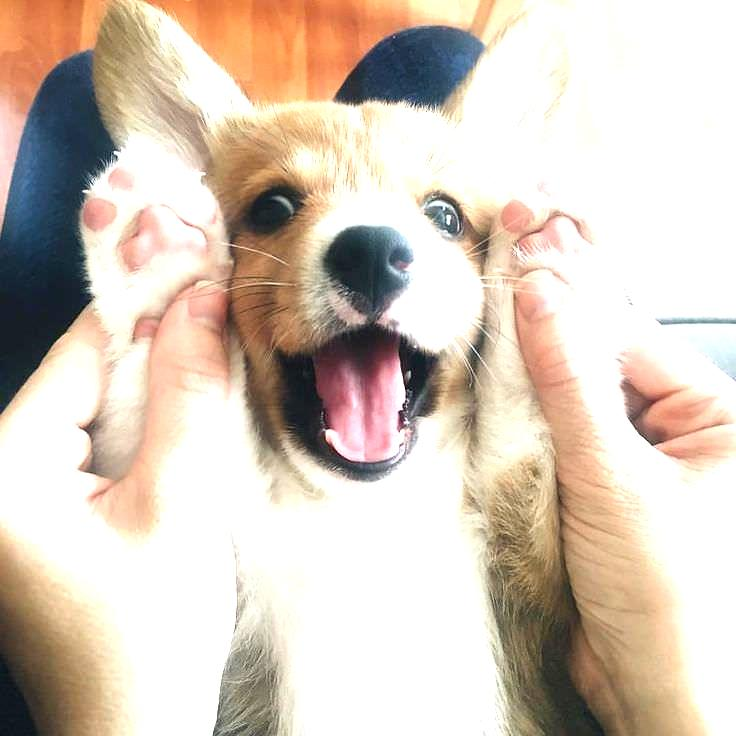
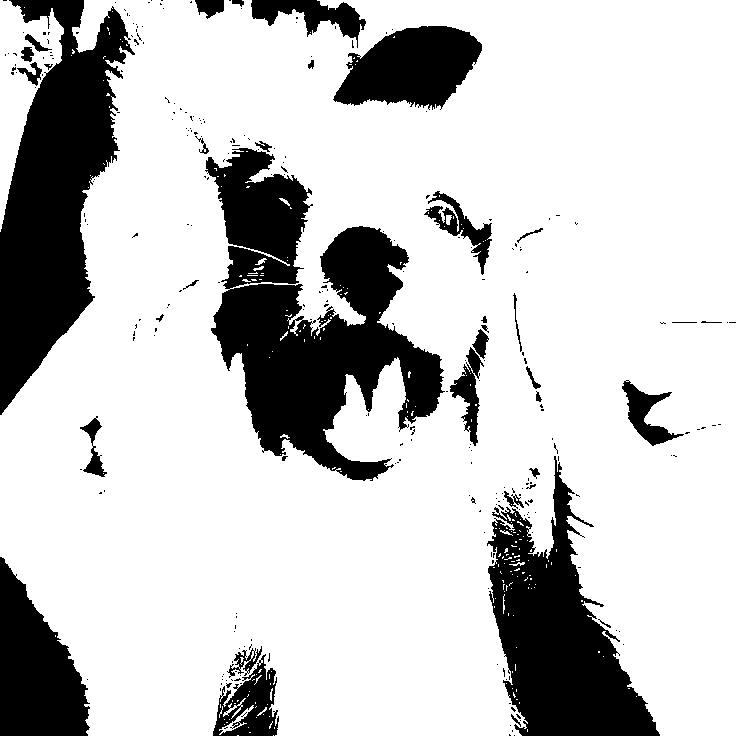
edit blackwhitecommand

diff --git a/src/main/java/seedu/address/logic/commands/BlackWhiteCommand.java b/src/main/java/seedu/address/logic/commands/BlackWhiteCommand.java
@@ -1,7 +1,5 @@
+/* @@author thamsimun */
 package seedu.address.logic.commands;
-
-import static seedu.address.commons.core.Config.ASSETS_FILEPATH;
-import static seedu.address.commons.core.Config.TEMP_FILEPATH;
 
 import java.io.File;
 import java.util.OptionalInt;
@@ -9,10 +7,10 @@ import java.util.OptionalInt;
 import com.sksamuel.scrimage.BufferedOpFilter;
 import com.sksamuel.scrimage.Image;
 import com.sksamuel.scrimage.filter.ThresholdFilter;
-import com.sksamuel.scrimage.nio.JpegWriter;
 
 import seedu.address.commons.core.Messages;
 import seedu.address.logic.CommandHistory;
+import seedu.address.logic.commands.exceptions.CommandException;
 import seedu.address.model.Album;
 import seedu.address.model.CurrentEdit;
 import seedu.address.model.Model;
@@ -28,47 +26,45 @@ public class BlackWhiteCommand extends Command {
         + ": Apply the black and white filter on the image with threshold given.\n"
         + "If threshold is not given, default threshold value is 127.\n"
         + "[THRESHOLD VALUE (int)] "
-        + "and FILENAME.\n"
-        + "Example: " + COMMAND_WORD + " cutedog.jpg"
-        + "Example2: " + COMMAND_WORD + " 130 cutedog.jpg";
+        + "Example: " + COMMAND_WORD
+        + "Example2: " + COMMAND_WORD;
     private OptionalInt threshold;
-    private String fileName;
+    private boolean isNewCommand;
 
     /**
      * Creates a ContrastCommand object.
      * @param threshold pixels lighter than this threshold becomes white and pixels darker than it becomes black.
-     * @param fileName file name of the image
      */
-    public BlackWhiteCommand(OptionalInt threshold, String fileName) {
+    public BlackWhiteCommand(OptionalInt threshold) {
         this.threshold = threshold;
-        this.fileName = fileName;
+        this.isNewCommand = true;
     }
 
     @Override
-    public CommandResult execute(CurrentEdit currentEdit, Album album, Model model, CommandHistory history) {
+    public CommandResult execute(CurrentEdit currentEdit, Album album, Model model, CommandHistory history)
+        throws CommandException {
+
+        seedu.address.model.image.Image initialImage = currentEdit.getTempImage();
+        if (initialImage == null) {
+            throw new CommandException(Messages.MESSAGE_DID_NOT_OPEN);
+        }
         if (threshold.isPresent()) {
-            seedu.address.model.image.Image initialImage = new seedu.address
-                .model.image.Image(ASSETS_FILEPATH + fileName);
             BufferedOpFilter bwFilter =
                 new ThresholdFilter(threshold.getAsInt(), 0xffffff, 0x000000);
-            Image.fromFile(new File(ASSETS_FILEPATH
-                + fileName)).filter(bwFilter)
-                .output(TEMP_FILEPATH + "sampleBlackWhite.jpg",
-                    new JpegWriter(100, true));
+            Image outputImage = Image.fromFile(new File(initialImage.getUrl())).filter(bwFilter);
+            currentEdit.setTempImage(outputImage);
         } else {
-            seedu.address.model.image.Image initialImage = new seedu.address
-                .model.image.Image(ASSETS_FILEPATH + fileName);
             BufferedOpFilter bwFilter =
                 new ThresholdFilter(127, 0xffffff, 0x000000);
-            Image.fromFile(new File(ASSETS_FILEPATH
-                + fileName)).filter(bwFilter)
-                .output(TEMP_FILEPATH + "sampleBlackWhite.jpg",
-                    new JpegWriter(100, true));
+            Image outputImage = Image.fromFile(new File(initialImage.getUrl())).filter(bwFilter);
+            currentEdit.setTempImage(outputImage);
         }
 
-        seedu.address.model.image.Image finalImage = new seedu.address.model
-            .image.Image(TEMP_FILEPATH + "sampleBlackWhite.jpg");
-        model.displayImage(finalImage);
+        if (this.isNewCommand) {
+            this.isNewCommand = false;
+            currentEdit.addCommand(this);
+            currentEdit.displayTempImage();
+        }
         return new CommandResult(Messages.MESSAGE_BLACKWHITE_SUCCESS);
     }
 }

diff --git a/src/main/java/seedu/address/logic/parser/BlackWhiteCommandParser.java b/src/main/java/seedu/address/logic/parser/BlackWhiteCommandParser.java
@@ -1,10 +1,6 @@
+/* @@author thamsimun */
 package seedu.address.logic.parser;
 
-import static java.util.Objects.requireNonNull;
-import static seedu.address.commons.core.Config.ASSETS_FILEPATH;
-import static seedu.address.commons.core.Messages.MESSAGE_INVALID_COMMAND_FORMAT;
-
-import java.io.File;
 import java.util.OptionalInt;
 
 import seedu.address.commons.core.Messages;
@@ -23,46 +19,32 @@ public class BlackWhiteCommandParser implements Parser<BlackWhiteCommand> {
      * @throws ParseException
      */
     public BlackWhiteCommand parse(String args) throws ParseException {
-        requireNonNull(args);
-        String fileName;
         OptionalInt threshold;
-        args = args.trim();
-        String[] parsed = args.split(" ");
 
         if (args.isEmpty()) {
-            throw new ParseException(String.format(MESSAGE_INVALID_COMMAND_FORMAT, BlackWhiteCommand.MESSAGE_USAGE));
-        }
-
-        if (parsed.length < 1) {
-            throw new ParseException(String.format(MESSAGE_INVALID_COMMAND_FORMAT, BlackWhiteCommand.MESSAGE_USAGE));
-        }
-
-        if (parsed.length == 2) {
-            try {
-                threshold = OptionalInt.of(Integer.parseInt(parsed[0]));
-            } catch (NumberFormatException e) {
-                throw new ParseException(Messages.MESSAGE_BLACKWHITE_INT_ERROR);
-            }
-            Character lastletter = parsed[0].charAt(parsed[0].length() - 1);
-            if (lastletter.equals('f') || lastletter.equals('F') || lastletter.equals('d') || lastletter.equals('D')) {
-                throw new ParseException(Messages.MESSAGE_BLACKWHITE_INT_ERROR);
-            }
-            if (threshold.getAsInt() < 0) {
-                throw new ParseException(Messages.MESSAGE_NEGATIVE_ERROR);
-            }
-            fileName = parsed[1];
-        } else {
             threshold = OptionalInt.empty();
-            fileName = parsed[0];
+        } else {
+            args = args.trim();
+            String[] parsed = args.split(" ");
+            if (parsed.length == 1) {
+                try {
+                    threshold = OptionalInt.of(Integer.parseInt(parsed[0]));
+                } catch (NumberFormatException e) {
+                    throw new ParseException(Messages.MESSAGE_BLACKWHITE_INT_ERROR);
+                }
+                Character lastletter = parsed[0].charAt(parsed[0].length() - 1);
+                if (lastletter.equals('f') || lastletter.equals('F') || lastletter.equals('d')
+                    || lastletter.equals('D')) {
+                    throw new ParseException(Messages.MESSAGE_BLACKWHITE_INT_ERROR);
+                }
+                if (threshold.getAsInt() < 0) {
+                    throw new ParseException(Messages.MESSAGE_NEGATIVE_ERROR);
+                }
+            } else {
+                threshold = OptionalInt.empty();
+            }
         }
-
-        File directory = new File(ASSETS_FILEPATH + fileName);
-
-        if (!directory.exists()) {
-            throw new ParseException(Messages.MESSAGE_FILE_DOES_NOT_EXIST);
-        }
-
-        return new BlackWhiteCommand(threshold, fileName);
+        return new BlackWhiteCommand(threshold);
     }
 
 }

diff --git a/src/main/java/seedu/address/logic/commands/BrightnessCommand.java b/src/main/java/seedu/address/logic/commands/BrightnessCommand.java
@@ -1,3 +1,4 @@
+/* @@author thamsimun */
 package seedu.address.logic.commands;
 
 import java.io.File;
@@ -25,9 +26,8 @@ public class BrightnessCommand extends Command {
         + ": Adjust the brightness of the image according to ratio value given.\n"
         + "If ratio is not given, default brightness ratio will be 1.1\n"
         + "Parameters: [BRIGHTNESS RATIO (double)] "
-        + "and FILENAME.\n"
-        + "Example: " + COMMAND_WORD + " cutedog.jpg"
-        + "Example2: " + COMMAND_WORD + " 0.3 cutedog.jpg";
+        + "Example: " + COMMAND_WORD
+        + "Example2: " + COMMAND_WORD;
     private OptionalDouble brightnessValue;
     private boolean isNewCommand;
 
@@ -63,7 +63,7 @@ public class BrightnessCommand extends Command {
             currentEdit.addCommand(this);
             currentEdit.displayTempImage();
         }
-        return new CommandResult(Messages.MESSAGE_CONTRAST_SUCCESS);
+        return new CommandResult(Messages.MESSAGE_BRIGHTNESS_SUCCESS);
     }
 
 }

diff --git a/src/main/java/seedu/address/logic/commands/ContrastCommand.java b/src/main/java/seedu/address/logic/commands/ContrastCommand.java
@@ -1,3 +1,4 @@
+/* @@author thamsimun */
 package seedu.address.logic.commands;
 
 import java.io.File;
@@ -25,9 +26,8 @@ public class ContrastCommand extends Command {
         + ": Adjust the contrast of the image according to ratio value given.\n"
         + "If ratio is not given, default contrast ratio will be 1.1\n"
         + "Parameters: [CONTRAST RATIO (double)] "
-        + "and FILENAME.\n"
-        + "Example: " + COMMAND_WORD + " + cutedog.jpg"
-        + "Example2: " + COMMAND_WORD + " 0.3 cutedog.jpg";
+        + "Example: " + COMMAND_WORD
+        + "Example2: " + COMMAND_WORD;
 
     private OptionalDouble contrastValue;
     private boolean isNewCommand;

diff --git a/src/main/java/seedu/address/model/CurrentEditManager.java b/src/main/java/seedu/address/model/CurrentEditManager.java
@@ -30,6 +30,7 @@ public class CurrentEditManager implements CurrentEdit {
     private Image originalImage;
     private Image tempImage;
 
+    /* @@author thamsimun */
     public CurrentEditManager() {
         this.originalImage = null;
         this.tempImage = null;
@@ -76,6 +77,7 @@ public class CurrentEditManager implements CurrentEdit {
         saveIntoTempFolder(image.getName().toString(), tempImage);
     }
 
+    /* @@author thamsimun */
     public void setTempImage(com.sksamuel.scrimage.Image image) {
         image.output(tempImage.getUrl(),
             new JpegWriter(100, true));

diff --git a/src/main/java/seedu/address/model/CurrentEdit.java b/src/main/java/seedu/address/model/CurrentEdit.java
@@ -1,3 +1,4 @@
+/* @@author thamsimun */
 package seedu.address.model;
 
 import seedu.address.logic.commands.Command;

diff --git a/src/main/java/seedu/address/logic/parser/BrightnessCommandParser.java b/src/main/java/seedu/address/logic/parser/BrightnessCommandParser.java
@@ -1,3 +1,4 @@
+/* @@author thamsimun */
 package seedu.address.logic.parser;
 
 import java.util.OptionalDouble;

diff --git a/src/main/java/seedu/address/logic/parser/ContrastCommandParser.java b/src/main/java/seedu/address/logic/parser/ContrastCommandParser.java
@@ -1,3 +1,4 @@
+/* @@author thamsimun */
 package seedu.address.logic.parser;
 
 import java.util.OptionalDouble;
